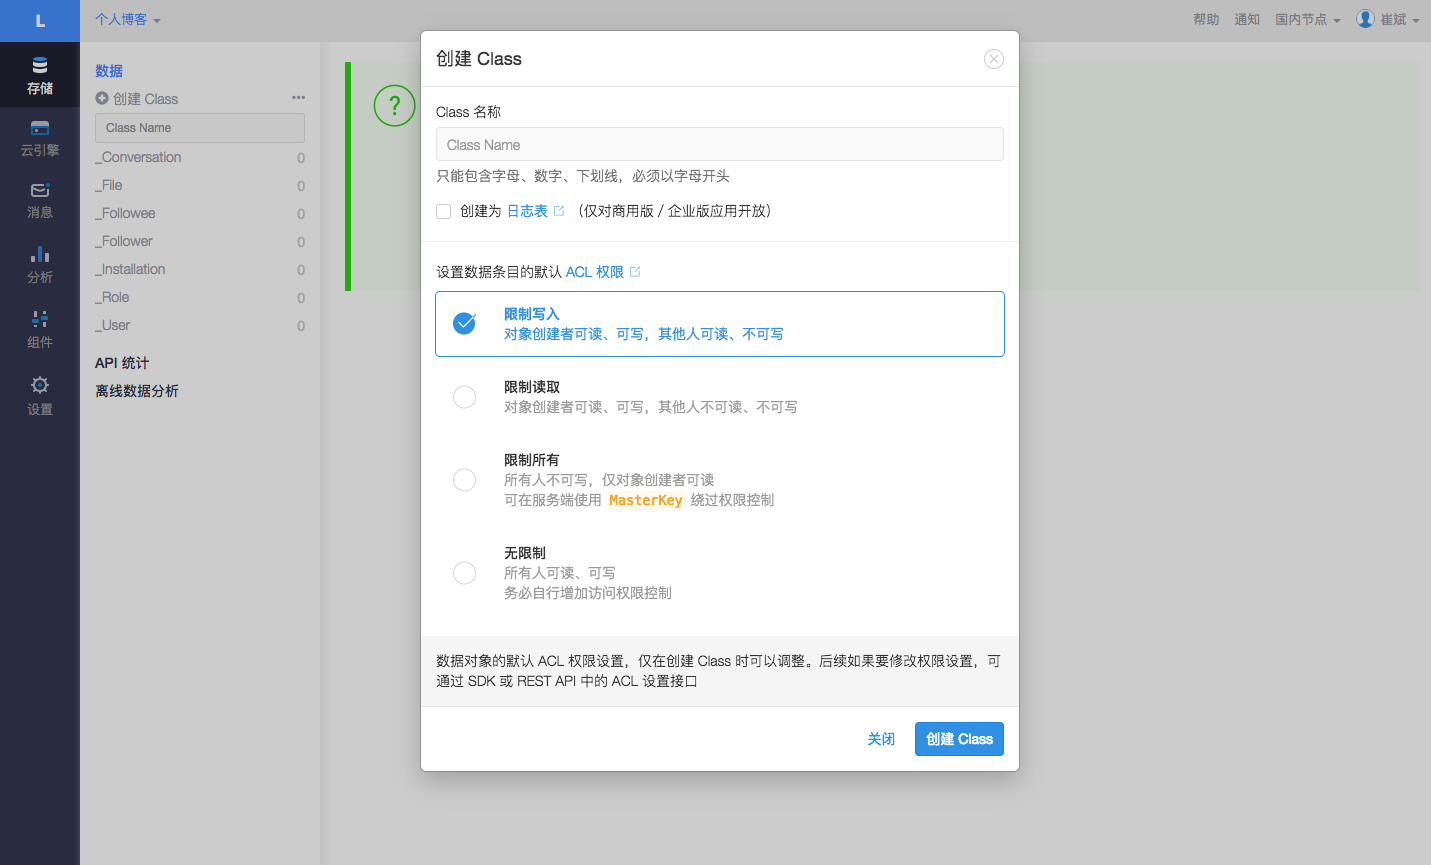
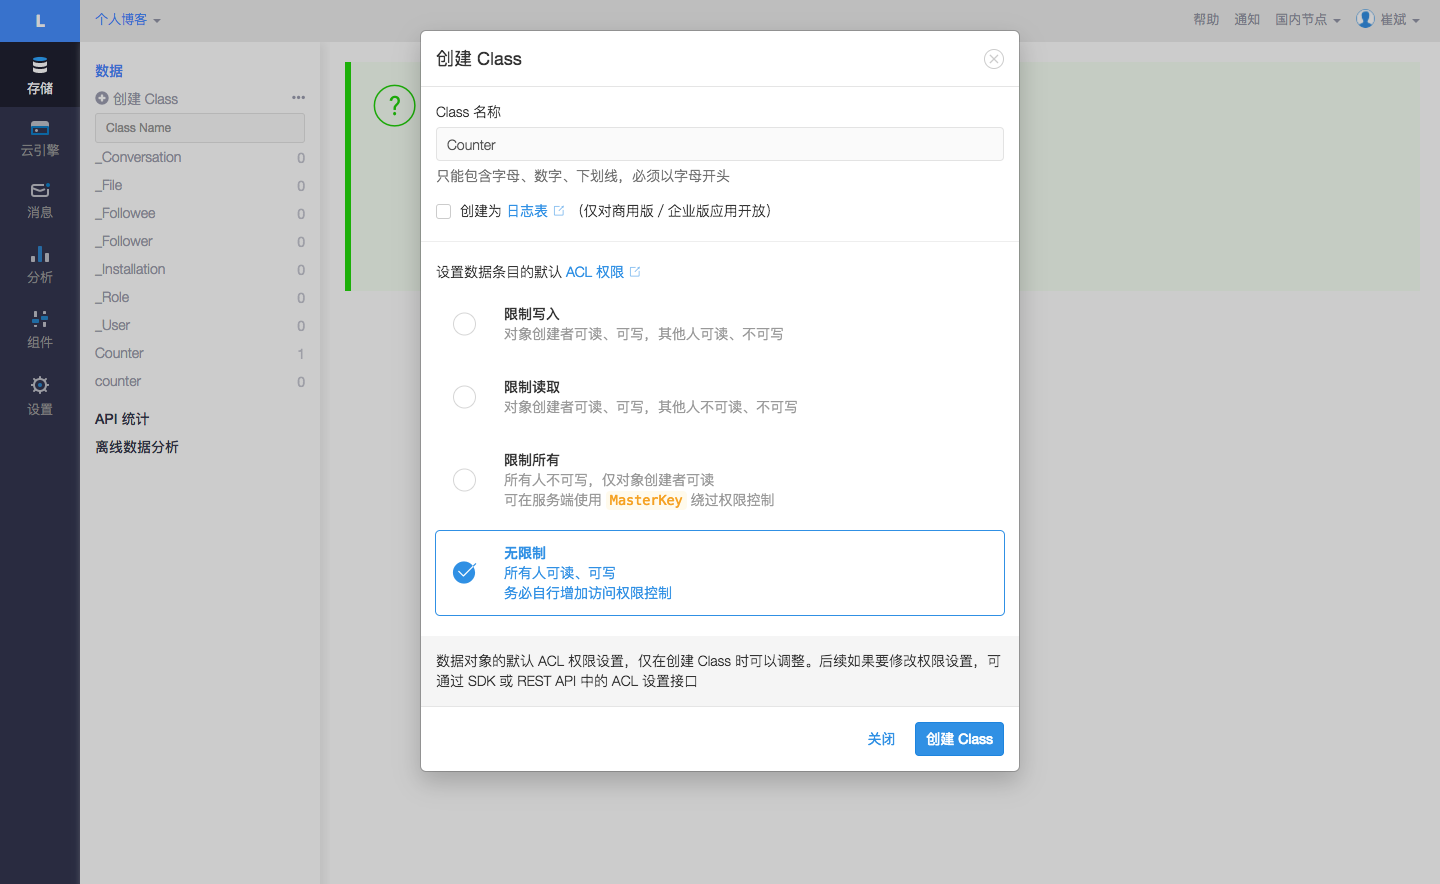
Site updated: 2017-08-01 12:37:45

diff --git a/2017/07/31/Hexo博客next主题添加文章阅读量统计功能/index.html b/2017/07/31/Hexo博客next主题添加文章阅读量统计功能/index.html
@@ -94,7 +94,7 @@
     我采用的是LeanCloud。LeanCloud的官方网址：https://leancloud.cn/
     1.注册创建应用
     首先进行注册，注册时如果密码过于简单会有提示，但是没有提示密码最低要求。我试了下，数字加大小写字母组合可以完成注册。
-    注册完成后，访问工作台可以创建一款">
+    注册完成后，访问工作台创建一款新的">
 <meta property="og:type" content="article">
 <meta property="og:title" content="Hexo博客next主题添加文章阅读量统计功能">
 <meta property="og:url" content="http://yoursite.com/2017/07/31/Hexo博客next主题添加文章阅读量统计功能/index.html">
@@ -103,18 +103,18 @@
     我采用的是LeanCloud。LeanCloud的官方网址：https://leancloud.cn/
     1.注册创建应用
     首先进行注册，注册时如果密码过于简单会有提示，但是没有提示密码最低要求。我试了下，数字加大小写字母组合可以完成注册。
-    注册完成后，访问工作台可以创建一款">
+    注册完成后，访问工作台创建一款新的">
 <meta property="og:image" content="http://yoursite.com/2017/07/31/Hexo博客next主题添加文章阅读量统计功能/001.png">
 <meta property="og:image" content="http://yoursite.com/2017/07/31/Hexo博客next主题添加文章阅读量统计功能/002.png">
 <meta property="og:image" content="http://yoursite.com/2017/07/31/Hexo博客next主题添加文章阅读量统计功能/003.png">
-<meta property="og:updated_time" content="2017-08-01T02:28:02.000Z">
+<meta property="og:updated_time" content="2017-08-01T04:36:26.000Z">
 <meta name="twitter:card" content="summary">
 <meta name="twitter:title" content="Hexo博客next主题添加文章阅读量统计功能">
 <meta name="twitter:description" content="    关于添加文章阅读量统计功能，大家一般采用不蒜子进行统计，因为植入比较简单。
     我采用的是LeanCloud。LeanCloud的官方网址：https://leancloud.cn/
     1.注册创建应用
     首先进行注册，注册时如果密码过于简单会有提示，但是没有提示密码最低要求。我试了下，数字加大小写字母组合可以完成注册。
-    注册完成后，访问工作台可以创建一款">
+    注册完成后，访问工作台创建一款新的">
 <meta name="twitter:image" content="http://yoursite.com/2017/07/31/Hexo博客next主题添加文章阅读量统计功能/001.png">
 
 
@@ -376,14 +376,17 @@
 <p>    我采用的是LeanCloud。LeanCloud的官方网址：<a href="https://leancloud.cn/" target="_blank" rel="external">https://leancloud.cn/</a></p>
 <p>    1.注册创建应用</p>
 <p>    首先进行注册，注册时如果密码过于简单会有提示，但是没有提示密码最低要求。我试了下，数字加大小写字母组合可以完成注册。</p>
-<p>    注册完成后，访问工作台可以创建一款新的移动应用，如下图所示：</p>
+<p>    注册完成后，访问工作台创建一款新的移动应用，如下图所示：</p>
 <p><img src="/2017/07/31/Hexo博客next主题添加文章阅读量统计功能/001.png" alt="001"></p>
-<p>    点击存储，我创建了名为counter的class，如下图所示：</p>
+<p>    进入新创建好的应用，点击存储，这时需要创建名为Counter的class用来存储访问博客的数据，例如：访问次数，最新访问时间等信息。class类名必须为Counter，主要为了与next主题相兼容，否则无法接收到相关数据。为了避免后续因为权限的问题导致次数统计显示不正常，ACL权限选择无限制，具体配置如下图所示：</p>
 <p><img src="/2017/07/31/Hexo博客next主题添加文章阅读量统计功能/002.png" alt="002"></p>
-<p>    在所有应用中获取当前新建应用的app_id和app_key，如下图所示：</p>
+<p>    在所有应用中获取当前新建应用的app_id和app_key，我把我的信息注释掉了，不要误会，如下图所示：</p>
 <p><img src="/2017/07/31/Hexo博客next主题添加文章阅读量统计功能/003.png" alt="003"></p>
-<p>    修改博客根目录下的_config.yml文件，app_id和app_key是上图获取到的，添加如下代码：</p>
-<figure class="highlight plain"><table><tr><td class="gutter"><pre><div class="line">1</div><div class="line">2</div><div class="line">3</div><div class="line">4</div><div class="line">5</div></pre></td><td class="code"><pre><div class="line"># leancloud</div><div class="line">leancloud_visitors:</div><div class="line">  enable: true</div><div class="line">  app_id: app_id</div><div class="line">  app_key: app_key</div></pre></td></tr></table></figure>
+<p>    修改博客根目录-&gt;themes-&gt;next-&gt;_config.yml文件，app_id和app_key是上图获取到的，找到如下代码替换app_id和app_key并将enable改为true，代码如下：</p>
+<figure class="highlight plain"><table><tr><td class="gutter"><pre><div class="line">1</div><div class="line">2</div><div class="line">3</div><div class="line">4</div><div class="line">5</div><div class="line">6</div></pre></td><td class="code"><pre><div class="line"># Show number of visitors to each article.</div><div class="line"># You can visit https://leancloud.cn get AppID and AppKey.</div><div class="line">leancloud_visitors:</div><div class="line">  enable: true</div><div class="line">  app_id: #AppID</div><div class="line">  app_key: #AppKey</div></pre></td></tr></table></figure>
+<p>    配置完成后生成部署hexo博客</p>
+<figure class="highlight plain"><table><tr><td class="gutter"><pre><div class="line">1</div><div class="line">2</div></pre></td><td class="code"><pre><div class="line">hexo generate</div><div class="line">hexo deploy</div></pre></td></tr></table></figure>
+<p>    </p>
 
       
     </div>

diff --git a/2017/07/28/Hexo博客添加评论功能/index.html b/2017/07/28/Hexo博客添加评论功能/index.html
@@ -107,7 +107,7 @@
 <meta property="og:image" content="http://yoursite.com/2017/07/28/Hexo博客添加评论功能/005.png">
 <meta property="og:image" content="http://yoursite.com/2017/07/28/Hexo博客添加评论功能/006.png">
 <meta property="og:image" content="http://yoursite.com/2017/07/28/Hexo博客添加评论功能/007.png">
-<meta property="og:updated_time" content="2017-07-28T08:50:21.000Z">
+<meta property="og:updated_time" content="2017-08-01T04:13:04.000Z">
 <meta name="twitter:card" content="summary">
 <meta name="twitter:title" content="Hexo博客添加评论功能">
 <meta name="twitter:description" content="    我用的是Next主题，一般大家都会直接选择集成第三方的评论功能。多说和网易云跟帖都相继关闭了。现在大家用的比较多的有友言、畅言、来必力等。
@@ -388,8 +388,7 @@
 <p>    在themes-&gt;next-&gt;_config.yml文件中，记得id与冒号间有空格。</p>
 <figure class="highlight plain"><table><tr><td class="gutter"><pre><div class="line">1</div><div class="line">2</div><div class="line">3</div></pre></td><td class="code"><pre><div class="line"># Support for LiveRe comments system.</div><div class="line"># You can get your uid from https://livere.com/insight/myCode (General web site)</div><div class="line">livere_uid: data-uid</div></pre></td></tr></table></figure>
 <p>    配置好后，部署下就可以了</p>
-<p>    hexo generate</p>
-<p>    hexo deploy</p>
+<figure class="highlight plain"><table><tr><td class="gutter"><pre><div class="line">1</div><div class="line">2</div></pre></td><td class="code"><pre><div class="line">hexo generate</div><div class="line">hexo deploy</div></pre></td></tr></table></figure>
 <p>    部署后的效果如下图：</p>
 <p><img src="/2017/07/28/Hexo博客添加评论功能/007.png" alt="007"></p>
 

diff --git a/css/main.css b/css/main.css
@@ -1694,7 +1694,7 @@ pre .javascript .function {
   width: 4px;
   height: 4px;
   border-radius: 50%;
-  background: #7dbd75;
+  background: #fe08b6;
 }
 .links-of-blogroll {
   font-size: 13px;
